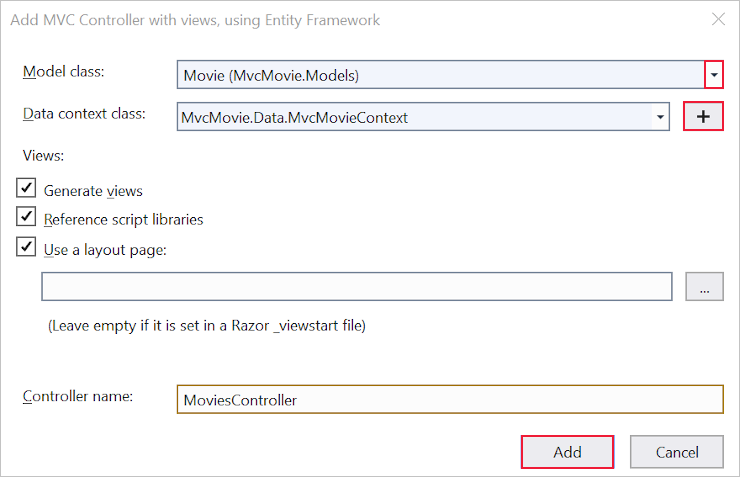
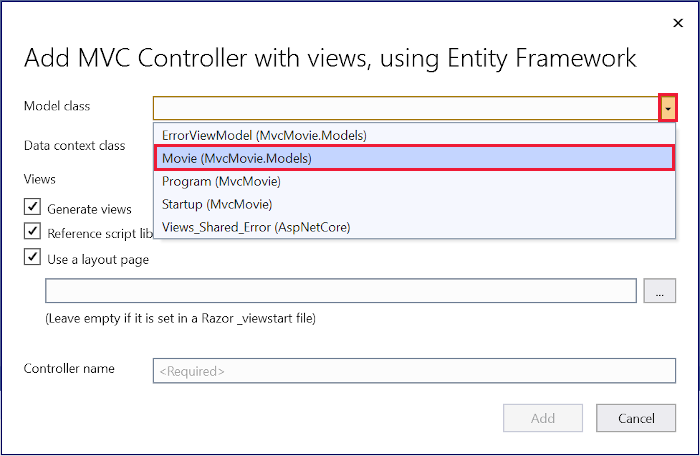
Split up add controller screenshots in adding-model.md

Changed region(s): [[0.0, 0.0, 1.0, 1.0], [0.03, 0.7982, 0.18, 0.8596], [0.03, 0.307, 0.18, 0.3377]]

diff --git a/aspnetcore/tutorials/first-mvc-app/adding-model.md b/aspnetcore/tutorials/first-mvc-app/adding-model.md
@@ -127,13 +127,21 @@ In the **Add Scaffold** dialog, select **MVC Controller with views, using Entity
 Complete the **Add MVC Controller with views, using Entity Framework** dialog:
 
 * In the **Model class** drop down, select **Movie (MvcMovie.Models)**.
-* In the **Data context class** row, select the **+** (plus) sign.
-  * In the **Add Data Context** dialog, the class name *MvcMovie.Data.MvcMovieContext* is generated, select **Add**.
 
 ![Add Data context](adding-model/_static/dc5.png)
 
+* In the **Data context class** row, select the **+** (plus) sign.
+
+![Add Data context](adding-model/_static/dc5_plus.png)
+
+* In the **Add Data Context** dialog, the class name *MvcMovie.Data.MvcMovieContext* is generated, select **Add**.
+
+![Add Data context](adding-model/_static/dc5_add.png)
+
 * **Views** and **Controller name** : Keep the default.
 * Select **Add**.
+
+![Add Data context](adding-model/_static/dc5_last_step.png)
 
 <a name="scaffolding-created"></a>
 
